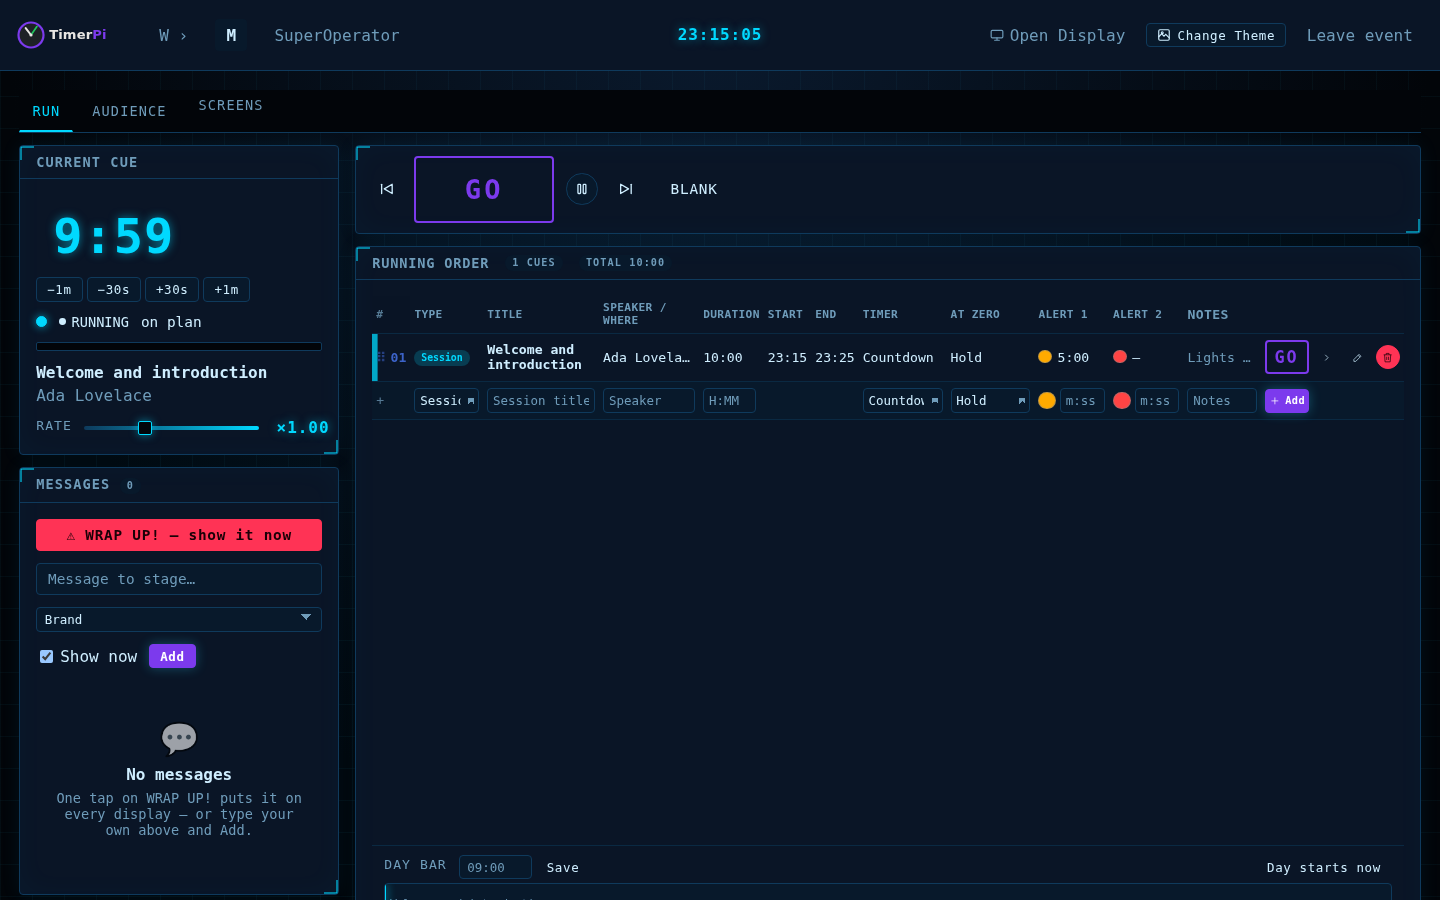
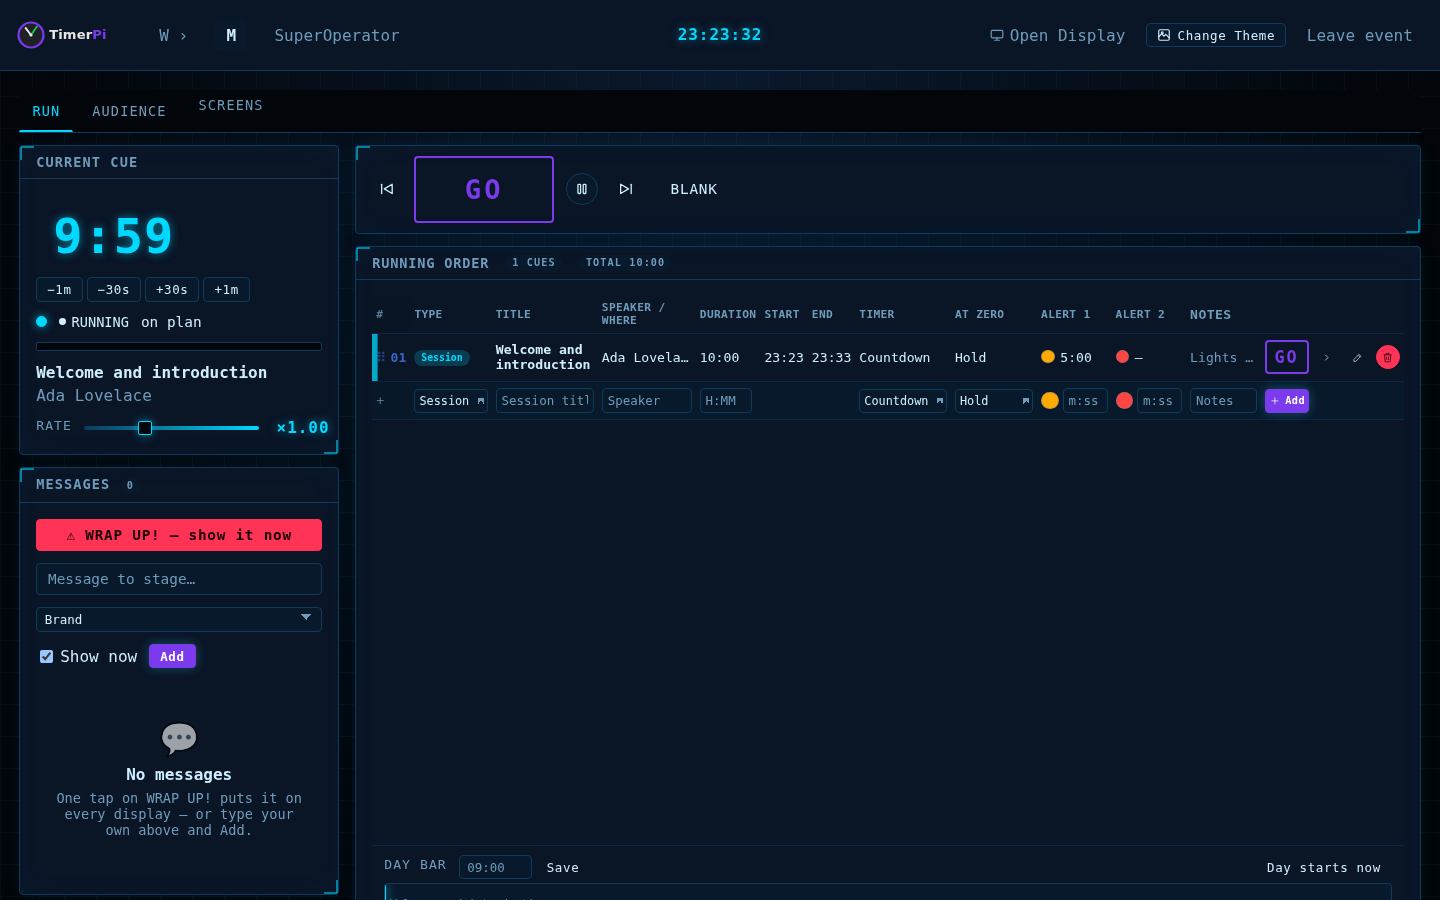
Running order add row: selects show their whole labels

diff --git a/public/css/timerpi.css b/public/css/timerpi.css
@@ -1227,7 +1227,7 @@ a.nav-brand img { height: 30px; width: auto; vertical-align: middle; }
 .tp-cuetable { font-size: .82rem; }
 .tp-cuetable :is(th, td) { padding-inline: .25rem; vertical-align: middle; }
 .tp-cuetable th { font-size: .7rem; letter-spacing: .03em; }
-.tp-cuetable .tp-cue-title { min-width: 7rem; }
+.tp-cuetable .tp-cue-title { min-width: 6.5rem; }
 .tp-cuetable .tp-cue-notes { color: var(--muted); font-size: inherit; }
 .tp-cuetable .tp-clip { display: block; max-width: 5.5rem; overflow: hidden; text-overflow: ellipsis; white-space: nowrap; }
 .tp-cuetable .tp-cue-notes .tp-clip { max-width: 4rem; }
@@ -1247,11 +1247,12 @@ a.nav-brand img { height: 30px; width: auto; vertical-align: middle; }
 /* Compact add-row controls: they set the column widths, and the whole
    table should fit a 1440 px screen next to the Current cue pane. */
 .tp-cue-add :is(.input, .select) { padding-inline: .3rem; font-size: .78rem; }
-.tp-cue-add .select { padding-inline-end: 1.1rem; background-position: right .25rem center; }
-.tp-cue-add .tp-cue-kind .select { width: 5.2em; }
-.tp-cue-add :is(.tp-cue-timer, .tp-cue-atzero) .select { width: 6.4em; }
+.tp-cue-add .select { padding-inline: .25rem .95rem; background-position: right .2rem center; font-size: .74rem; }
+.tp-cue-add .tp-cue-kind .select { width: 6.2em; }
+.tp-cue-add .tp-cue-timer .select { width: 7.4em; }
+.tp-cue-add .tp-cue-atzero .select { width: 6.6em; }
 .tp-cue-add .tp-cue-dur .input { width: 4.2em; }
-.tp-cue-add .tp-cue-title .input { width: 100%; min-width: 7em; }
+.tp-cue-add .tp-cue-title .input { width: 100%; min-width: 6.5em; }
 .tp-cue-add .tp-cue-who .input { width: 100%; min-width: 5em; }
 .tp-cue-add .tp-cue-notes .input { width: 100%; min-width: 4em; }
 .tp-alert-field { display: flex; align-items: center; gap: .25rem; }
